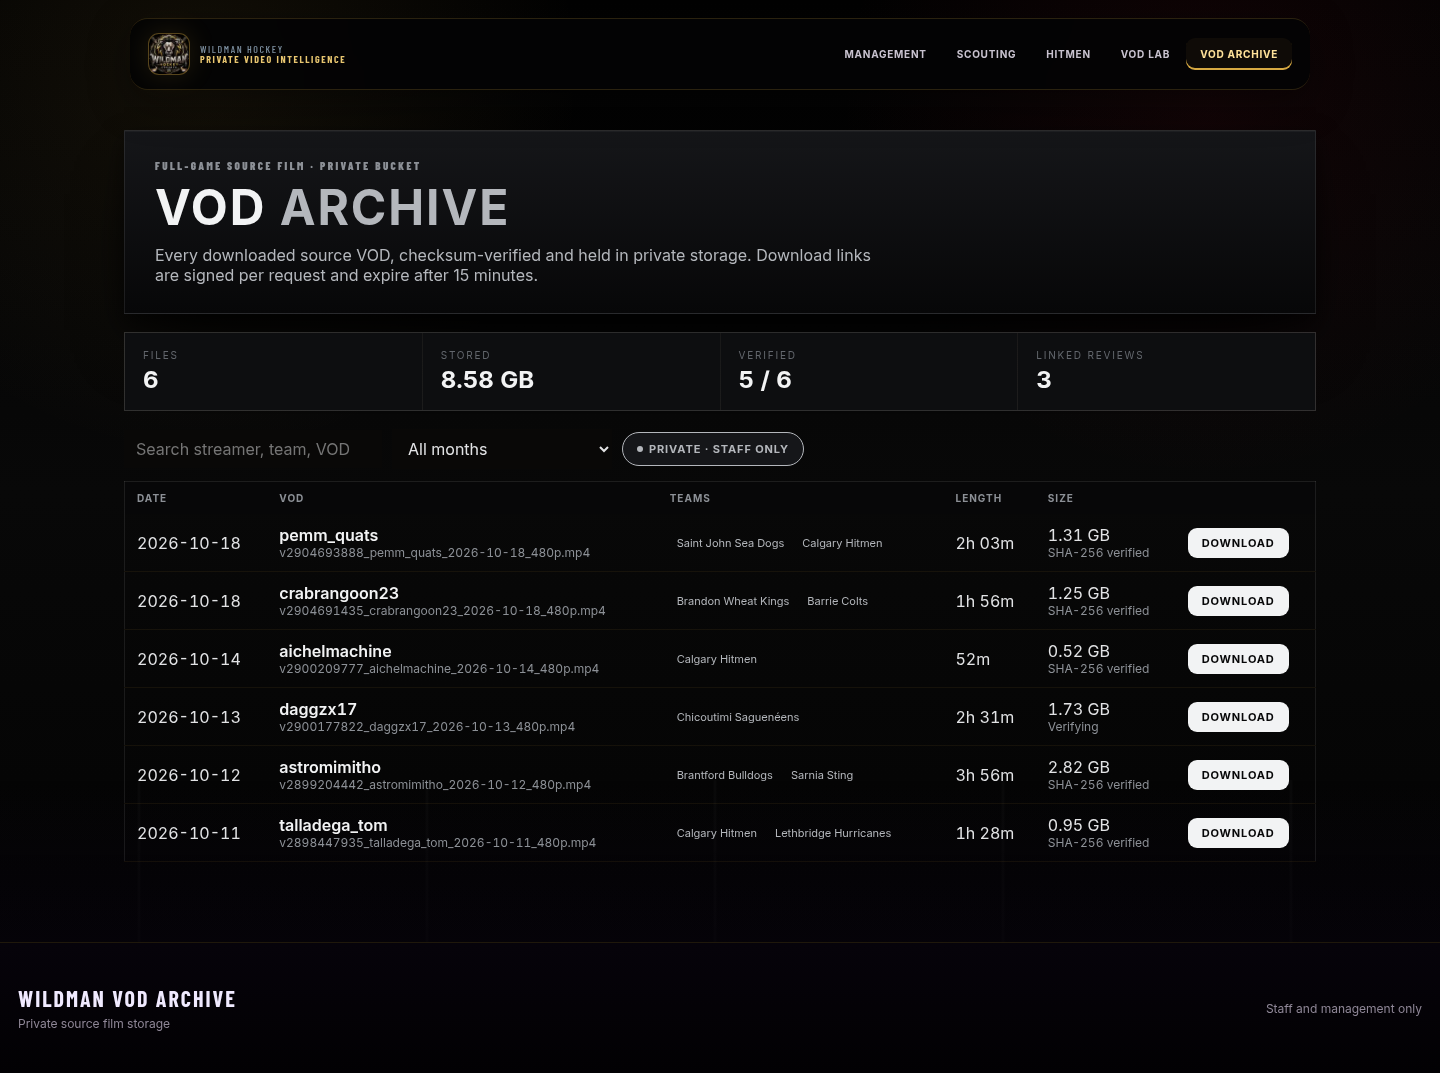
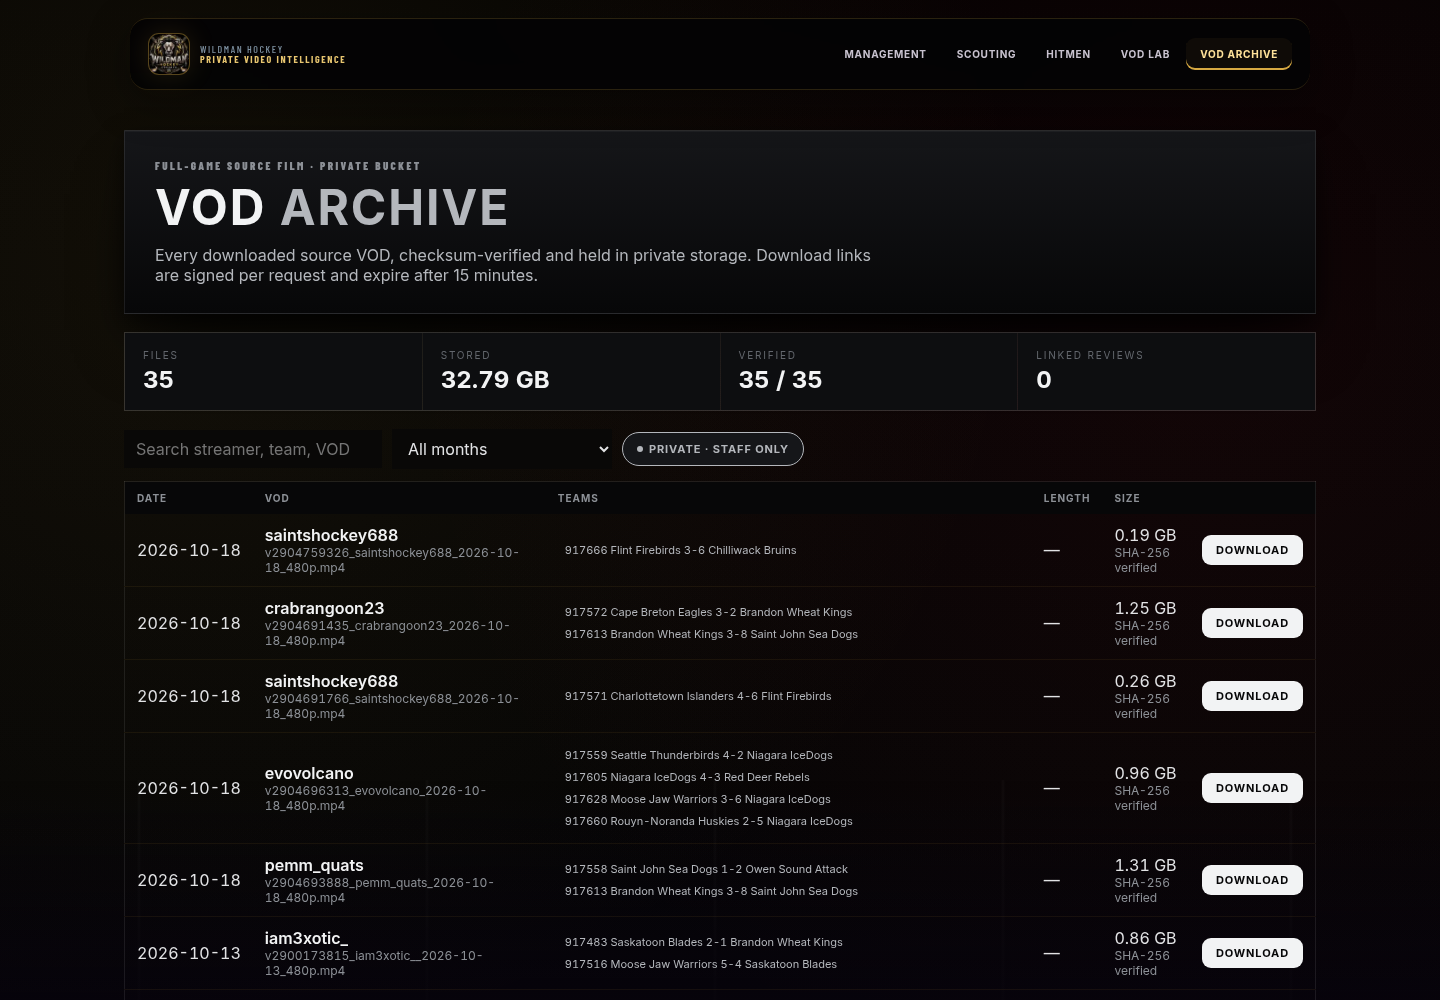
VOD Archive: read VOD Scout's lgchl-vod-archive index (per-row bucket), refresh preview

diff --git a/api/vod-archive.js b/api/vod-archive.js
@@ -4,7 +4,7 @@ import { presignGet } from "./_s3presign.js";
 // Staff-only VOD archive. Row access is enforced by Supabase RLS on vod_archive_files
 // (is_vvhl_staff() or team management): the caller's own JWT is used, so a non-staff
 // user gets zero rows and therefore can never obtain a download link.
-const COLUMNS = "id,twitch_vod_id,streamer,game_date,teams,team_id,review_session_id,file_name,bytes,duration_seconds,sha256,verified_at,uploaded_at";
+const COLUMNS = "id,bucket,twitch_vod_id,streamer,game_date,teams,team_id,review_session_id,file_name,bytes,duration_seconds,sha256,verified_at,uploaded_at";
 
 function storageConfig() {
   const c = {
@@ -30,13 +30,13 @@ export default async function handler(req, res) {
       return res.status(200).json({ files: rows || [], downloadsEnabled: Boolean(storageConfig()) });
     }
     if (!/^[0-9a-f-]{36}$/i.test(id)) return res.status(400).json({ error: "Invalid file id" });
-    const rows = await supabaseRest(req, `/rest/v1/vod_archive_files?id=eq.${id}&select=id,file_name,bucket_key`);
+    const rows = await supabaseRest(req, `/rest/v1/vod_archive_files?id=eq.${id}&select=id,file_name,bucket,bucket_key`);
     const row = Array.isArray(rows) ? rows[0] : null;
     if (!row) return res.status(404).json({ error: "Archive file not found or not authorized" });
     const cfg = storageConfig();
     if (!cfg) return res.status(503).json({ error: "Archive storage is not configured" });
     const expiresIn = 900;
-    const url = presignGet({ ...cfg, key: row.bucket_key, filename: row.file_name, expiresIn });
+    const url = presignGet({ ...cfg, bucket: row.bucket || cfg.bucket, key: row.bucket_key, filename: row.file_name, expiresIn });
     return res.status(200).json({ url, expiresIn });
   } catch (error) {
     return res.status(error.status || 500).json({ error: error.message || "Archive request failed" });

diff --git a/vod-archive.css b/vod-archive.css
@@ -31,3 +31,4 @@ body.wildman-site .va-shell .status-pill::before{background:var(--bc-soft,#B4B7B
 body.wildman-site .va-shell .va-btn{background:var(--bc-offwhite,#F2F3F4)!important;color:var(--bc-black,#070708)!important;border:0!important;box-shadow:none!important}
 body.wildman-site .va-shell .va-btn[disabled]{background:var(--bc-steel,#2A2C30)!important;color:var(--bc-dim,#62666C)!important}
 body.wildman-site .va-shell .va-tag{color:var(--bc-soft,#B4B7BC)!important;border-color:var(--bc-steel,#2A2C30)!important;background:transparent!important}
+.va-table td[data-label="Date"]{white-space:nowrap}.va-table td[data-label="Teams"]{font-size:12px;color:var(--bc-soft,#B4B7BC)}

diff --git a/vod-archive.html b/vod-archive.html
@@ -12,7 +12,7 @@
   <link rel="stylesheet" href="management.css">
   <link rel="stylesheet" href="broadcast-tokens.css">
   <link rel="stylesheet" href="network-v2.css">
-  <link rel="stylesheet" href="vod-archive.css?v=20261019b">
+  <link rel="stylesheet" href="vod-archive.css?v=20261020">
 </head>
 <body class="wildman-site management-protected">
 <header class="site-header">
@@ -56,6 +56,6 @@
 <script src="backend.js"></script>
 <script src="management-guard.js"></script>
 <script src="script.js?v=20261003-durable"></script>
-<script src="vod-archive.js?v=20261019b"></script>
+<script src="vod-archive.js?v=20261020"></script>
 </body>
 </html>
